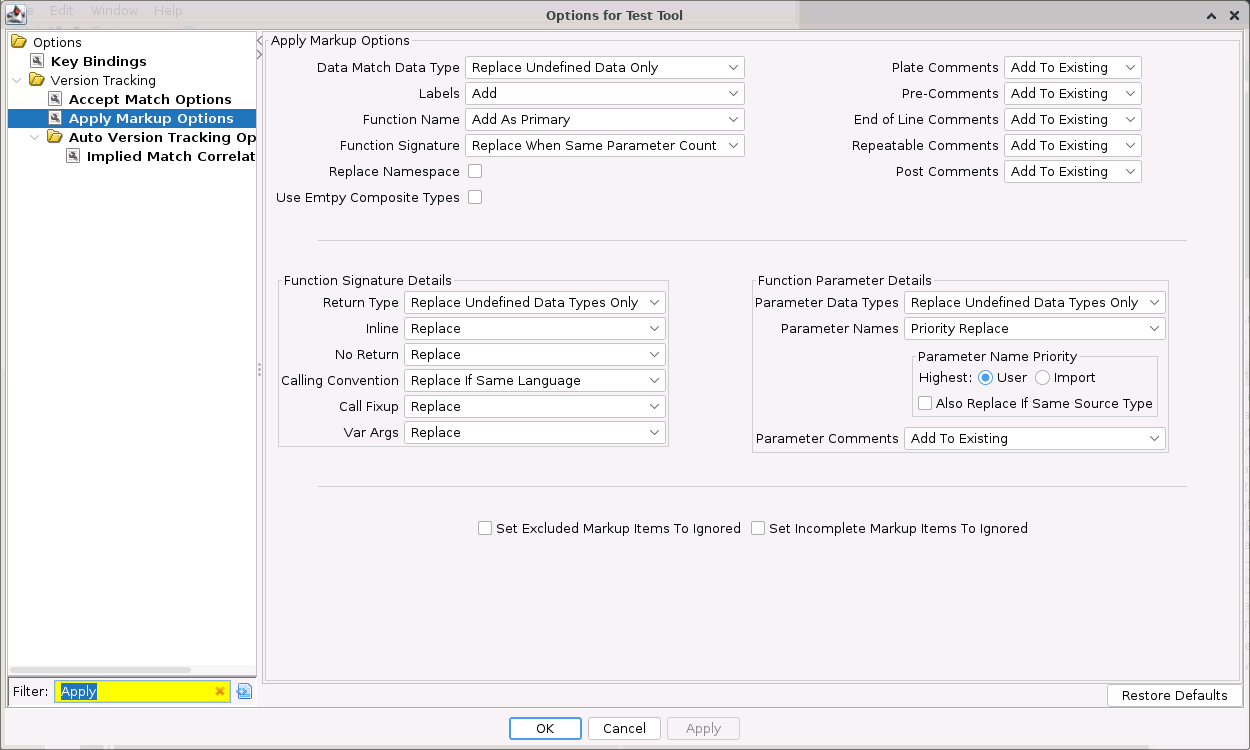
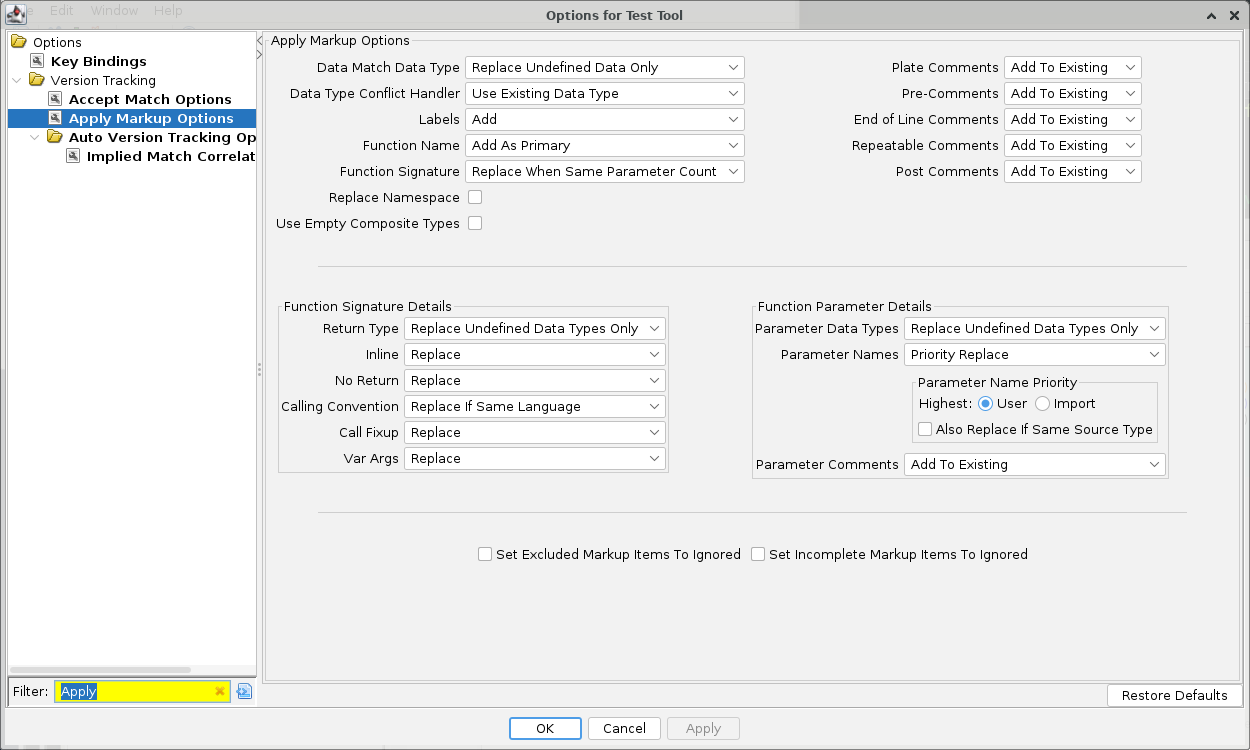
GP-7220 - Version Tracking - Added an option to use the existing data type during an apply

diff --git a/Ghidra/Features/VersionTracking/src/test.slow/java/ghidra/feature/vt/api/markupitem/DataTypeMarkupItemTest.java b/Ghidra/Features/VersionTracking/src/test.slow/java/ghidra/feature/vt/api/markupitem/DataTypeMarkupItemTest.java
@@ -29,6 +29,7 @@ import ghidra.feature.vt.gui.util.VTMatchApplyChoices.DataTypeConflictChoices;
 import ghidra.feature.vt.gui.util.VTMatchApplyChoices.ReplaceDataChoices;
 import ghidra.feature.vt.gui.util.VTOptionDefines;
 import ghidra.framework.options.ToolOptions;
+import ghidra.program.database.data.ProgramDataTypeManager;
 import ghidra.program.model.address.Address;
 import ghidra.program.model.data.*;
 import ghidra.program.model.lang.*;
@@ -84,6 +85,57 @@ public class DataTypeMarkupItemTest extends AbstractVTMarkupItemTest {
 		DataTypeValidator validator = new DataTypeValidator(sourceData, destinationData,
 			ReplaceDataChoices.REPLACE_FIRST_DATA_ONLY);
 		doTestFindAndApplyMarkupItem(validator);
+	}
+
+	@Test
+	public void testReplace_ConflictInDtm_ChooseExistingType() throws Exception {
+
+		Address srcAddr = addr("0x010074e6", sourceProgram);
+		StructureDataType coolStruct1 = createCoolStruct1();
+		Data sourceData = setDataType(sourceProgram, srcAddr, coolStruct1, coolStruct1.getLength());
+
+		// Add a type to the destination that has the same data type path, but is not equivalent
+		StructureDataType coolStruct2 = createCoolStruct2();
+		addToDestinationDtm(coolStruct2);
+
+		// make room for the type to be applied
+		Address destAddr = addr("0x010074e6", destinationProgram);
+		clear(destinationProgram, destAddr, coolStruct2.getLength());
+
+		StringDataType destDt = new StringDataType();
+		Data destData = setDataType(destinationProgram, destAddr, destDt, 4);
+
+		DataTypeValidator validator = new DataTypeValidator(sourceData, destData,
+			ReplaceDataChoices.REPLACE_FIRST_DATA_ONLY);
+		validator.setConflictChoice(DataTypeConflictChoices.USE_EXISTING);
+		validator.setKeepExistingType(true);
+		doTestFindAndApplyMarkupItem(validator);
+
+		assertConflictTypeInDestinationDtm(coolStruct1, false);
+	}
+
+	@Test
+	public void testReplace_ConflictInDtm_ChooseRenameAndAdd() throws Exception {
+
+		Address srcAddr = addr("0x010074e6", sourceProgram);
+		StructureDataType coolStruct1 = createCoolStruct1();
+		Data sourceData = setDataType(sourceProgram, srcAddr, coolStruct1, coolStruct1.getLength());
+
+		// Add a type to the destination that has the same data type path, but is not equivalent
+		StructureDataType coolStruct2 = createCoolStruct2();
+		addToDestinationDtm(coolStruct2);
+
+		Address destAddr = addr("0x010074e6", destinationProgram);
+		StringDataType destDt = new StringDataType();
+		Data destData = setDataType(destinationProgram, destAddr, destDt, 4);
+		setDataType(destinationProgram, destAddr.add(4), destDt, 6);
+
+		DataTypeValidator validator = new DataTypeValidator(sourceData, destData,
+			ReplaceDataChoices.REPLACE_FIRST_DATA_ONLY);
+		validator.setConflictChoice(DataTypeConflictChoices.RENAME_AND_ADD);
+		doTestFindAndApplyMarkupItem(validator);
+
+		assertConflictTypeInDestinationDtm(coolStruct1, true);
 	}
 
 	@Test
@@ -308,7 +360,7 @@ public class DataTypeMarkupItemTest extends AbstractVTMarkupItemTest {
 
 	@Test
 	public void testRejectedApplyDoesNotMutateDestinationDataTypeManager() throws Exception {
-		
+
 		Address sourceAddress = addr("0x010074e6", sourceProgram); // LoadCursorW
 		StructureDataType sourceDataType = new StructureDataType("RejectedApplyStruct", 0);
 		sourceDataType.add(new DWordDataType());
@@ -446,6 +498,48 @@ public class DataTypeMarkupItemTest extends AbstractVTMarkupItemTest {
 // Private Methods
 //==================================================================================================
 
+	private void addToDestinationDtm(StructureDataType struct) {
+		ProgramDataTypeManager destDtm = destinationProgram.getDataTypeManager();
+		tx(destDtm, () -> {
+			destDtm.resolve(struct, null);
+		});
+
+		DataTypePath dtp = struct.getDataTypePath();
+		DataType resolvedDtm = destDtm.getDataType(dtp);
+		assertNotNull(resolvedDtm);
+	}
+
+	private StructureDataType createCoolStruct1() {
+		StructureDataType struct = new StructureDataType("CoolStructure", 0);
+		struct.add(new DWordDataType());
+		return struct;
+	}
+
+	// 'CoolStructure' that is slightly different than that made in createCoolStruct1()
+	private StructureDataType createCoolStruct2() {
+		StructureDataType struct = new StructureDataType("CoolStructure", 0);
+		struct.add(new DWordDataType());
+		struct.add(new DWordDataType());
+		return struct;
+	}
+
+	private void assertConflictTypeInDestinationDtm(DataType dt, boolean expectConflict) {
+
+		DataTypePath dtp = dt.getDataTypePath();
+		String name = dt.getName() + ".conflict";
+		CategoryPath cp = dtp.getCategoryPath();
+		DataTypePath conflictPath = new DataTypePath(cp, name);
+
+		ProgramDataTypeManager destDtm = destinationProgram.getDataTypeManager();
+		DataType conflictType = destDtm.getDataType(conflictPath);
+		if (expectConflict) {
+			assertNotNull(conflictType);
+		}
+		else {
+			assertNull(conflictType);
+		}
+	}
+
 	private Structure createGadgetStruct() {
 
 		Structure gadgetStruct = new StructureDataType("Gadget", 0);
@@ -461,14 +555,13 @@ public class DataTypeMarkupItemTest extends AbstractVTMarkupItemTest {
 
 	private Data setDataType(Program program, Address address, DataType dataType, int length) {
 
-		int txID = program.startTransaction("Change Data Type");
-		boolean commit = false;
-		try {
+		return tx(program, () -> {
 			Listing listing = program.getListing();
 			Data sourceData = listing.getDataAt(address);
 			if (sourceData == null) {
 				return null;
 			}
+
 			listing.clearCodeUnits(address, sourceData.getMaxAddress(), false);
 			Data data;
 			if (length > 0) {
@@ -477,23 +570,20 @@ public class DataTypeMarkupItemTest extends AbstractVTMarkupItemTest {
 			else {
 				data = listing.createData(address, dataType);
 			}
-			commit = true;
 			return data;
-		}
-		catch (Exception e) {
-			// Commit is false by default so nothing else to do.
-			return null;
-		}
-		finally {
-			program.endTransaction(txID, commit);
-		}
+		});
+	}
+
+	private void clear(Program p, Address a, int length) {
+		tx(p, () -> {
+			Listing listing = p.getListing();
+			listing.clearCodeUnits(a, a.add(length), false);
+		});
 	}
 
 	private Instruction createInstruction(Program program, Address atAddress) {
 
-		int txID = program.startTransaction("Create Instruction");
-		boolean commit = false;
-		try {
+		return tx(program, () -> {
 			Listing listing = program.getListing();
 			Memory memory = program.getMemory();
 			MemBuffer buf = new DumbMemBufferImpl(memory, atAddress);
@@ -502,16 +592,8 @@ public class DataTypeMarkupItemTest extends AbstractVTMarkupItemTest {
 			InstructionPrototype proto = program.getLanguage().parse(buf, context, false);
 			Instruction createdInstruction =
 				listing.createInstruction(atAddress, proto, buf, context, 0);
-			commit = true;
 			return createdInstruction;
-		}
-		catch (Exception e) {
-			// Commit is false by default so nothing else to do.
-			return null;
-		}
-		finally {
-			program.endTransaction(txID, commit);
-		}
+		});
 	}
 
 //==================================================================================================
@@ -528,6 +610,7 @@ public class DataTypeMarkupItemTest extends AbstractVTMarkupItemTest {
 		private int originalDestinationLength;
 		private ReplaceDataChoices dataTypeChoice;
 		private DataTypeConflictChoices conflictChoice;
+		private boolean keepExistingType;
 
 		DataTypeValidator(Data sourceData, Data destinationData,
 				ReplaceDataChoices dataTypeChoice) {
@@ -546,6 +629,10 @@ public class DataTypeMarkupItemTest extends AbstractVTMarkupItemTest {
 
 		void setConflictChoice(DataTypeConflictChoices conflictChoice) {
 			this.conflictChoice = conflictChoice;
+		}
+
+		void setKeepExistingType(boolean keep) {
+			this.keepExistingType = keep;
 		}
 
 		@Override
@@ -587,10 +674,19 @@ public class DataTypeMarkupItemTest extends AbstractVTMarkupItemTest {
 			Data currentDestinationData = listing.getDataAt(getDestinationApplyAddress());
 			DataType currentDestinationDataType = currentDestinationData.getDataType();
 			int currentDestinationLength = currentDestinationData.getLength();
-			assertTrue("Data type was not applied",
-				sourceDataType.isEquivalent(currentDestinationDataType));
-			assertTrue("Data type was not set to the source data type's size",
-				sourceLength == currentDestinationLength);
+
+			if (keepExistingType) {
+				// guilty knowledge: keeping the existing type is used when the types have the same
+				// data type path, but are not equivalent
+				assertEquals(sourceDataType.getDataTypePath(),
+					currentDestinationDataType.getDataTypePath());
+			}
+			else {
+				assertTrue("Data type was not applied",
+					sourceDataType.isEquivalent(currentDestinationDataType));
+				assertTrue("Data type was not set to the source data type's size",
+					sourceLength == currentDestinationLength);
+			}
 		}
 
 		@Override

diff --git a/Ghidra/Features/VersionTracking/src/main/java/ghidra/feature/vt/api/markuptype/DataTypeMarkupType.java b/Ghidra/Features/VersionTracking/src/main/java/ghidra/feature/vt/api/markuptype/DataTypeMarkupType.java
@@ -266,8 +266,17 @@ public class DataTypeMarkupType extends VTMarkupType {
 			// data that would be overwritten following the first data in the destination.
 			return false;
 		}
-		
-		DataType resolvedDataType = program.getDataTypeManager().resolve(dataType, conflictHandler);
+
+		/*
+		 	Note: the resolve may add a .conflict type.  That will not be removed if an exception is
+		 	thrown.  Also if an unapply is executed, .conflict types will not be removed.  For now,
+		 	we leave this up to the user to fix, should they care.  Trying to remove .conflict types
+		 	during an unapply may have unintended side-effects if the user added new uses of that 
+		 	conflict type.
+		 */
+
+		ProgramBasedDataTypeManager dtm = program.getDataTypeManager();
+		DataType resolvedDataType = dtm.resolve(dataType, conflictHandler);
 
 		listing.clearCodeUnits(startAddress, endAddress, false);
 

diff --git a/Ghidra/Features/VersionTracking/src/main/java/ghidra/feature/vt/gui/util/VTMatchApplyChoices.java b/Ghidra/Features/VersionTracking/src/main/java/ghidra/feature/vt/gui/util/VTMatchApplyChoices.java
@@ -4,9 +4,9 @@
  * Licensed under the Apache License, Version 2.0 (the "License");
  * you may not use this file except in compliance with the License.
  * You may obtain a copy of the License at
- * 
+ *
  *      http://www.apache.org/licenses/LICENSE-2.0
- * 
+ *
  * Unless required by applicable law or agreed to in writing, software
  * distributed under the License is distributed on an "AS IS" BASIS,
  * WITHOUT WARRANTIES OR CONDITIONS OF ANY KIND, either express or implied.
